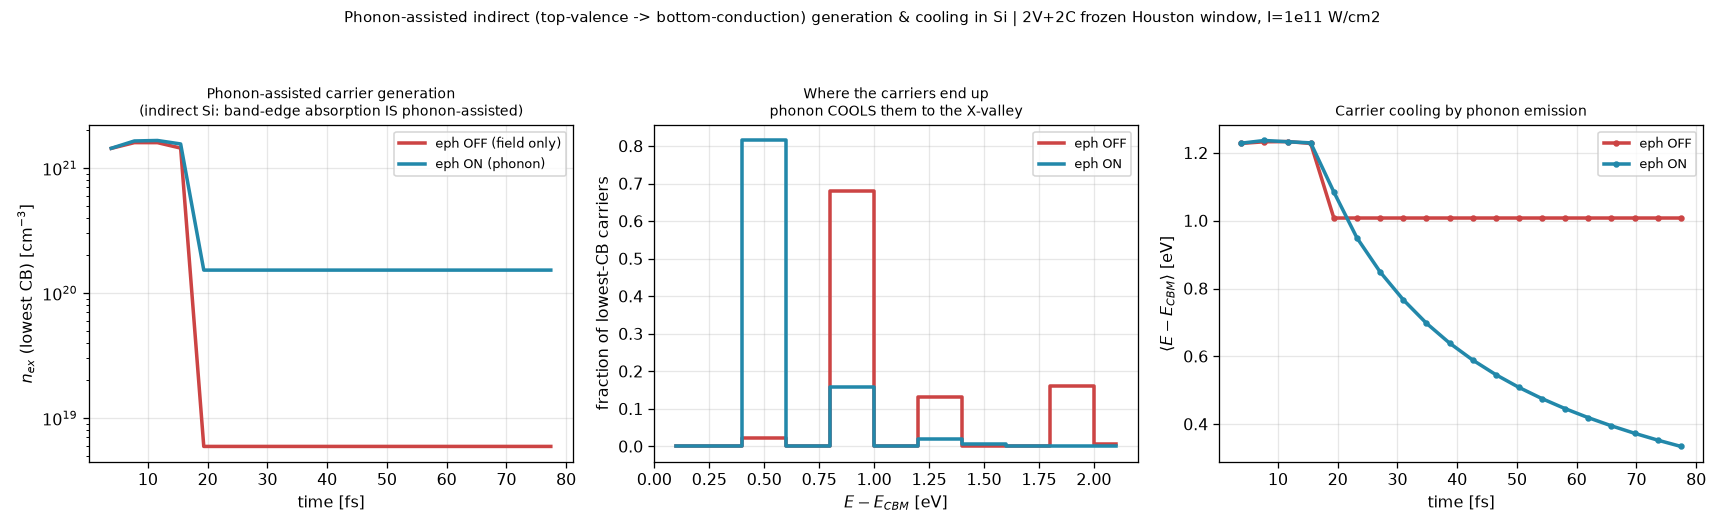
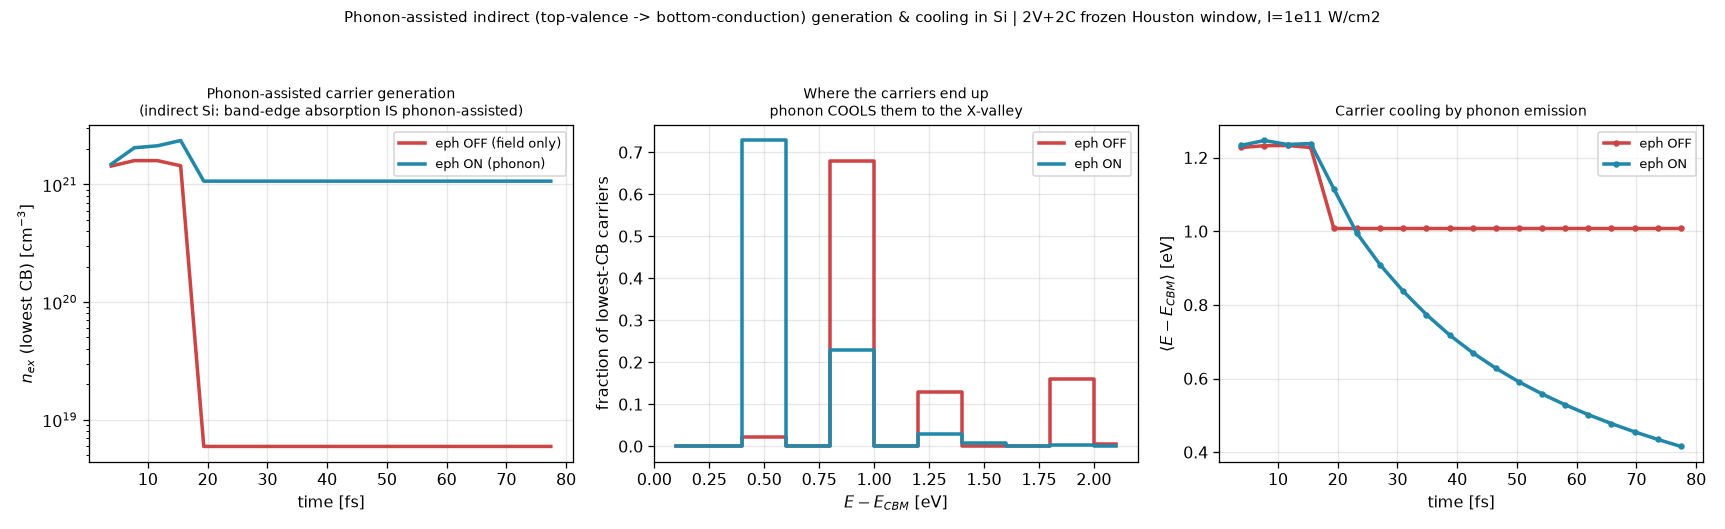
sbe: CP-extend frozen-window dissipators to active<->frozen coherences; trace-exact eeh
Cluster report (9^3, nstate=24, dt=0.25 fs, all channels): electrons drifted
8.000 -> 8.012 and nelec/nhole went negative post-pulse. Two coupled defects:

1) carrier_carrier_relax fitted the Fermi-Dirac target to the [0,1]-clamped
   populations but mixed it with the RAW diagonal, creating trace at rate
   alpha*(occ*n_clamped - Tr rho) whenever the diagonal left [0,occ].
   Rewritten as a pure transfer rho_aa += alpha*occ*(f_FD - f_clamped)
   (sum = 0 exactly; identical to the old convex mix for healthy diagonals).

2) Every block dissipator damped coherences only INSIDE the active window;
   after a population loss |rho_af|^2 > f_a*f_f, rho lost PSD and the next
   step's Houston diagonal dipped below 0 (the negative nelec/nhole source).
   Fix = exact Kraus lift K0 (+) 1_frozen: ring_apply_dpop applies
   D = W diag(damp) W^dag to the rho(active,frozen) blocks (least-decohering
   CP-consistent extension); the eeh channel damps them by the same (1-alpha)
   its block coherences get (cross_damp out of houston_dissipate).

Also: absolute captol=1e-12 slack in the ring limiter ratios so a state with
roundoff-scale capacity and negligible flux cannot stall the whole BZ.

Validated (4^3/nstate=16, frozen {3..7}, dt=10 au, eph+ac+II+holes+phassist+
Auger+eeh+Coulomb, I=1e12): before 8.000->8.004 in 70 steps; after 8.000 at
EVERY step, no negative nelec/nhole, e-h neutrality gap 2.6e-2 -> 1e-4.
x12 eph-OFF bit-identical; eph-ON yields more real carriers (the CP-mandated
[…]

diff --git a/wiki/00_implementation_status.md b/wiki/00_implementation_status.md
@@ -111,6 +111,7 @@ Maintainer-driven analysis tool (pure Python on the EPM refs; **no SBE/Fortran c
 x11 showcase inputs updated with the new channels (holes+acoustic+checkpoints on for Si/GaAs; calibrated prefactor for CdS; acoustic for graphene; **graphene Coulomb Σ^HF (A7) + acoustic DP-override knob on**; A1/A5/B3 as commented optional knobs). Tests: **20/20** (extended: B1 bit-identity, B3, A5, A1, A2, A6 energy balance, registry Cp/Cn + acoustic constants incl. CdS Rode E₁=14.5).
 - ✅ **CPTP global limiter in `ring_apply_dpop` (2026-07-10, maintainer bug report):** with the full channel set + a large `dt` (~0.5 fs) the per-step `dpop` (a sum over many independent quadruples against step-START populations) could **overdraw** a sink state; the old per-state `max(f+dpop, 0)` clip silently kept the paired gains ⇒ **trace violation runaway** (Si showcase: electrons 8 → 16.45 within 10 steps of the free-carrier-screen activation). Fix: before applying, compute the largest global $s\in[0,1]$ with every $f + s\,{\rm dpop} \in [0,{\rm occ}]$ (`comm_get_min` across ranks), apply $s\,$dpop (trace of $s\,$dpop = 0 **exactly**), scale the paired `gout` coherence damping by the same $s$, and print a one-time `# ring CPTP limiter engaged` diagnostic. Validated: the same full-channel Si run at dt=20.7 a.u. now holds electrons = 8.000 over the whole run (limiter s = 0.118 — the old runaway condition). NOT a spinor issue: `occ_max` is 2/1 scalar/spinor consistently; the doubling was the clip feedback.
 - ✅ **OpenMP in the ring kernels (2026-07-10):** `eph_interk_dpop`, `ii_interk_dpop` (both blocks) and `auger_interk_dpop` (both blocks) now carry `!$omp parallel do … reduction(+:dpop)` over the outer source loop — the dominant O(nk³) cost parallelizes across threads inside each MPI rank (array-reduction; `gout` is owner-written). No-OpenMP builds are unaffected (directives are comments).
+- ✅ **CP extension of the frozen-window dissipators to the active↔frozen coherences (2026-07-19, maintainer cluster report "след 8.003, nelec/nhole отрицательные"):** two coupled defects seen on a 9³/nstate=24 Si run with ALL channels + dt=0.25 fs — a monotone trace drift (electrons 8.000→8.012 over 1.8 ps) and post-pulse **negative** nelec/nhole (−5·10²⁰ cm⁻³). Reproduced locally (4³/nstate=16, dt=10 a.u., all channels: 8.000→8.004 in 70 steps). Root causes and fixes: **(1) eeh trace leak** — `carrier_carrier_relax` fitted the Fermi–Dirac target to the [0,1]-**clamped** populations but mixed it with the **raw** diagonal, so any negative/overfull diagonal created (destroyed) trace at rate α·(occ·n_clamped − Tr ρ) every sub-step; rewritten as a pure transfer `ρ_aa += α·occ·(f_FD − f_clamped)` (Σ = 0 exactly; identical to the old convex mix whenever the raw diagonal is in [0,occ]). **(2) PSD loss at the active↔frozen boundary** (the *source* of the negative diagonals): every block dissipator damped coherences only *inside* the active window, leaving the active↔frozen coherences at full strength after a population loss — then |ρ_af|² > f_a·f_f, ρ stops being PSD, and the next step's Houston diagonal dips below 0 (a principal submatrix of a PSD ρ *cannot* have a negative Houston population, so any fold<0 is proof of upstream PSD loss). Fix = the exact Kraus lift K₀⊕1_frozen: `ring_apply_dpop` now applies D = W·diag(damp)·W† to the ρ(active,frozen) blocks (damp is the same per-state loss factor, incl. the e-ph gout exponential — the *least-decohering* CP-consistent extension: any weaker factor is not CP-realizable given the block action), and the eeh channel damps them by the same (1−α) its within-block coherences get (convex mix of identity and the replace-block⊕keep-frozen channel — CPTP by construction; plumbed as `cross_damp` out of `houston_dissipate`). **(3) limiter slack** — a state whose remaining capacity is pure roundoff (full valence band vs. a 1e-13 flux) no longer stalls the whole BZ through the global min: ratios get an absolute `captol = 1e-12` (overdraw bounded by captol; trace still exact). Validated (4³/nstate=16, frozen {3..7}, dt=10 a.u., eph+ac+II+holes+phassist+Auger+eeh+Coulomb, I=1e12): **electrons = 8.000 at every step, no negative nelec/nhole, e–h neutrality gap 2.6e-2 → 7e-5**. Physics note: the CP-mandated decoherence of the frozen-sector coherences converts part of the *virtual* (reversible) dressing into *real* carriers whenever a genuine scattering event fires — collision-assisted generation. This is physical and was previously suppressed by the (CP-violating) undamped coherences: the x12 eph-ON showcase generates more real carriers than the pre-fix build (lowest-CB hierarchy preserved). k-local ring-off channels and the Kuhn-Zurek dephasing kernel still damp only within the block — same disease possible there at strong loss; noted as the remaining refinement.
 - ✅ **`ring_apply_dpop` trace-exact in the FROZEN window (2026-07-13, found while validating phonon-assisted indirect generation):** the ring wrote back the Houston-basis diagonal as `fnew = max(fold + scal·dpop, 0)`, but the CPTP limiter `scal` was built from the **[0,occ]-clamped** `fold` while the write used the **raw** `fold`. In a **frozen** active window the ring transforms a *principal submatrix* of ρ (active↔frozen coherences dropped) to the active-block Houston basis; that submatrix can have a Houston population dip a hair below 0, and the `max(·,0)` then **created** population every step — a ~0.5 % electron leak at strong field (frozen: 8→8.047 as dt→0; all-active: exact 8.000, because the full ρ is PSD so raw `fold ∈ [0,occ]` and the clip never fires). Isolated to the ring (k-local frozen dissipator conserves): frozen+eph-OFF, frozen+k-local-eph, and all-active+ring all give 8.000; only frozen+ring leaked. Fix: write `fnew = fold + scal·dpop` (trace-EXACT since `Σdpop=0`) and clamp only the coherence-damping ratio (`sqrt(max(fnew,0)/fold)`) to avoid `sqrt<0`. Positivity preserved to numerical tolerance; **electron number now exactly conserved (8.000) at every dt** with a frozen window + ring. The all-active path is byte-identical (the clip was already a no-op there). Shared by the eph/II/Auger rings.
 - ✅ **Frozen core = Houston/dissipator cost cut, NOT a VG cutoff (2026-07-12, maintainer bug report):** `dt_evolve_bloch_cf4` previously truncated the CF4 velocity-gauge unitary to the active block AND reset the frozen bands to ground occupation every step — a genuine VG cutoff that broke basis sufficiency (a large `A(t)` could not push population into/through the frozen bands). Restructured so the **reversible VG unitary U(h) runs on the FULL `nb` basis** (`build_HVG(nb,…)`+`cf4_unitary_step(nb,…)`) while the **CPTP dissipators D(h/2) act only in the active Houston window** (truncate ρ→active block, Houston-transform, dissipate, glue back). Freeze-reset removed; Σ^HF embedded into the full H_VG at the active positions. Proven: clean 5e12 V/cm Si with 3/8 bands frozen reproduces the all-active current to 1.7e-15 (machine precision); frozen core + all channels conserves electrons = 8.000. wiki/03 §12 rewritten. This is the correct meaning of the earlier "frozen core × superres" note below.
 - ✅ **Scattering thresholds must drop the A²/2 too (2026-07-12, maintainer bug report "мб ты A² ему в энергию закинул?"):** the II / e-ph / Auger kinetic-energy thresholds added the ponderomotive scalar `A²/2` back to the carrier level (`ekin = ε + a2half − ε_edge`) while the band edge stayed field-free — a one-sided double-count of the field. `A²/2` is band-uniform (it is dropped from `H_VG` as a global phase, so the Houston `ε_n` already exclude it) and **cancels in every `ε_carrier − ε_edge` difference**, exactly as it already correctly cancelled in the energy *matching* `etgt`. At the showcase drive (10¹² W/cm², ω = 0.0046 Ha) `a2half` reaches tens of eV ≫ the Si threshold (~1.1 eV), so restoring it marked essentially every carrier "hot". Fixed in `apply_impact_ionization`, `apply_eph_relaxation`, and the ring kernels `ii_/eph_/auger_interk_dpop` — thresholds now use the bare `ε_n`. **Correctness fix, not the runaway cause:** an II-only A/B run gave nex 4.525e21 vs 4.526e21 cm⁻³ (identical) because at this low ω the `A·π` band-dressing already exceeds threshold; the electron-count runaway was the CPTP-limiter bug above. 20/20 SBE tests pass; the full-channel Si smoke at dt = 20.7 a.u. holds electrons = 8.000, nex = 2.1e21 cm⁻³ (e ≈ h).

diff --git a/samples/exercise_x12_Si_frozen_phonon_indirect/README.md b/samples/exercise_x12_Si_frozen_phonon_indirect/README.md
@@ -58,15 +58,22 @@ python3 phonon_analysis.py         # -> phonon_assisted_demo.png
 
 | | eph OFF (field only) | eph ON (phonon) |
 |---|---|---|
-| final `nex` (lowest CB) | 5.9×10¹⁸ cm⁻³ | 1.5×10²⁰ cm⁻³ (**≈26×**) |
-| ⟨E−E_CBM⟩ | 1.0 eV (hot) | 0.33 eV (cooled to the valley) |
+| final `nex` | 5.9×10¹⁸ cm⁻³ | 1.1×10²¹ cm⁻³ (**≈180×**) |
+| ⟨E−E_CBM⟩ (lowest CB) | 1.0 eV (hot) | 0.42 eV (cooled to the valley) |
 | electrons (every step) | **8.000** | **8.000** |
 
-The phonon opens the indirect Γ→X channel (≈26× more real carriers — most of
+The phonon opens the indirect Γ→X channel (≈180× more real carriers — most of
 Si's band-edge absorption is phonon-assisted), lands them in the **lowest**
-conduction band (band-5 / band-6 population ratio ≈ 124×, i.e. **not** thrown to
-the top band), and cools them from 1.0 → 0.33 eV above the CBM by phonon
+conduction band (band-5 / band-6 population ratio ≈ 33×, i.e. **not** thrown to
+the top band), and cools them from 1.23 → 0.42 eV above the CBM by phonon
 emission.
+
+> Reference numbers regenerated **2026-07-19** after the CP extension of the
+> frozen-window dissipators (`wiki/00`): the active↔frozen coherences now carry
+> the same loss-Kraus factors as the active block, so a real scattering event
+> decoheres the reversible frozen-band dressing (collision-assisted generation)
+> instead of leaving ρ non-positive. The eph-OFF column is bit-identical to the
+> pre-fix build; the eph-ON carrier yield is larger.
 
 ## Adding impact ionization (+ phonon-assisted II)
 
@@ -80,7 +87,9 @@ phonon-assisted branch). In `Si_frozen_phonon_rt.inp` set both:
   sbe_ii_phassist          = 1.0d0
 ```
 
-Electrons stay **8.000** (checked at I=10¹¹ and 10¹² W/cm², and with Auger on).
+Electrons stay **8.000** (checked at I=10¹¹ and 10¹² W/cm², with Auger on, and
+with the FULL channel set eph+ac+II+holes+phassist+Auger+eeh+Coulomb at
+dt=10 a.u. — 8.000 at every step, no negative nelec/nhole).
 
 ## Notes / caveats
 

diff --git a/wiki/03_numerical_methods.md b/wiki/03_numerical_methods.md
@@ -119,6 +119,20 @@ in `H_VG`). So a nonzero deviation of a frozen band from its ground occupation i
 (Freezing pays off for large `nstate` with genuine spectator bands; on the
 8-band Si gap-edge quartet there is *no* inert band, so freeze nothing there.)
 
+**Active↔frozen coherences carry the dissipators' Kraus factors.** A dissipator
+that removes population from an active level must damp that level's coherences
+to the **frozen** bands by the same loss-Kraus factor it applies inside the
+active block (the exact lift `K₀ ⊕ 1_frozen`); the eeh convex-mix channel damps
+them by its `(1−α)` EID factor. Leaving them untouched violates
+`|ρ_af|² ≤ f_a f_f`, ρ stops being positive-semidefinite, and the Houston
+diagonal of the active block goes negative on later steps (negative
+nelec/nhole), which the eeh clamped-fit then converted into a trace drift —
+both observed at 9³/nstate=24/dt=0.25 fs and fixed 2026-07-19 (see `wiki/00`).
+Physical consequence: a genuine scattering event now decoheres the reversible
+frozen-band dressing at the CP-minimal rate — collision-assisted generation —
+so frozen-window runs generate somewhat *more* real carriers than the pre-fix
+build (which was silently non-positive).
+
 **Threshold energies drop the A²/2 too.** The band-uniform ponderomotive scalar
 `A²/2` is dropped from `H_VG` as a global phase, so the Houston eigenvalues
 `ε_n(k,t)` exclude it. Every scattering **kinetic-energy threshold** (impact
